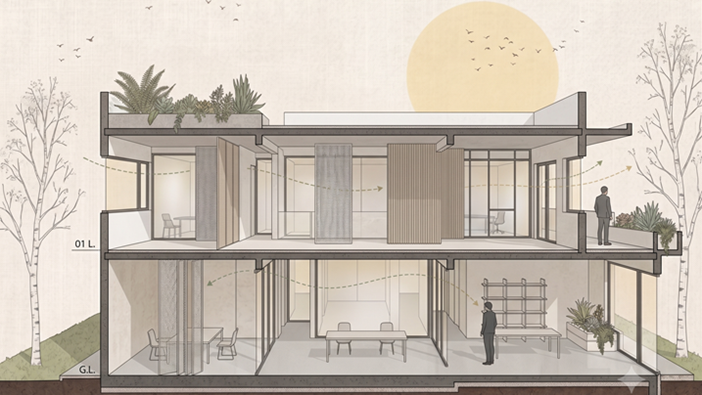
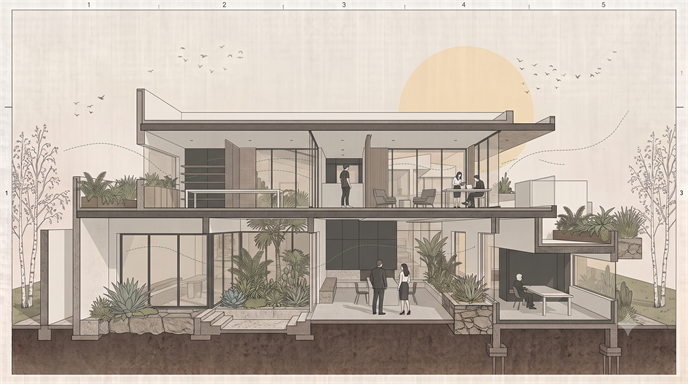
feat: update and optimize 6b.png illustration asset, add cache query to modal cards, and bump cache to v9.0

diff --git a/dna-preview.html b/dna-preview.html
@@ -11,8 +11,8 @@
     <meta name="description" content="An unlinked 14-chapter interactive architectural discovery engine exploring volumetric thresholds, thermal envelopes, and programmatic realities.">
 
     <!-- Brand Favicon -->
-    <link rel="icon" type="image/png" href="assets/images/logo.png?v=8.9">
-    <link rel="apple-touch-icon" href="assets/images/logo.png?v=8.9">
+    <link rel="icon" type="image/png" href="assets/images/logo.png?v=9.0">
+    <link rel="apple-touch-icon" href="assets/images/logo.png?v=9.0">
 
     <!-- Typography: Inter & Lintel fallback -->
     <link rel="preconnect" href="https://fonts.googleapis.com">
@@ -21,7 +21,7 @@
     <link href="https://fonts.googleapis.com/icon?family=Material+Icons" rel="stylesheet">
 
     <!-- Isolated Sandbox Stylesheet -->
-    <link rel="stylesheet" href="css/dna-preview.css?v=8.9">
+    <link rel="stylesheet" href="css/dna-preview.css?v=9.0">
 </head>
 
 <body>
@@ -302,7 +302,7 @@
     <div id="dna-toast" class="dna-toast">Dossier Summary copied to clipboard!</div>
 
     <!-- Standalone Interactive Engine Script -->
-    <script src="js/dna-preview.js?v=8.9"></script>
+    <script src="js/dna-preview.js?v=9.0"></script>
 </body>
 
 </html>

diff --git a/js/dna-modal.js b/js/dna-modal.js
@@ -609,7 +609,7 @@
 
         const visualEl = cardElement.querySelector('.dna-card-visual') || cardElement.querySelector('.dna-card-image');
         if (visualEl) {
-            visualEl.innerHTML = `<img src="${option.image}" alt="${option.title}" class="dna-card-illustration" loading="eager">`;
+            visualEl.innerHTML = `<img src="${option.image}?v=9.0" alt="${option.title}" class="dna-card-illustration" loading="eager">`;
         }
 
         const tagEl = cardElement.querySelector('.dna-card-tag');
@@ -879,7 +879,7 @@
                 const cardEl = document.createElement('div');
                 cardEl.className = 'dna-print-card-item';
                 cardEl.innerHTML = `
-                    <img src="${chosenOpt.image}" alt="${chosenOpt.title}" class="dna-print-card-thumb">
+                    <img src="${chosenOpt.image}?v=9.0" alt="${chosenOpt.title}" class="dna-print-card-thumb">
                     <div class="dna-print-card-content">
                         <span class="dna-print-card-chapter">${chapNum} // ${categoryName}</span>
                         <div class="dna-print-card-title">${chosenOpt.title}</div>

diff --git a/index.html b/index.html
@@ -12,10 +12,10 @@
     <link rel="preconnect" href="https://fonts.gstatic.com" crossorigin>
     <link href="https://fonts.googleapis.com/css2?family=Inter:wght@300;400;600&display=swap" rel="stylesheet">
     <link href="https://fonts.googleapis.com/icon?family=Material+Icons" rel="stylesheet">
-    <link rel="icon" type="image/png" href="assets/images/logo.png?v=8.9">
-    <link rel="apple-touch-icon" href="assets/images/logo.png?v=8.9">
-    <link rel="stylesheet" href="css/styles.css?v=8.9">
-    <link rel="stylesheet" href="css/dna-modal.css?v=8.9">
+    <link rel="icon" type="image/png" href="assets/images/logo.png?v=9.0">
+    <link rel="apple-touch-icon" href="assets/images/logo.png?v=9.0">
+    <link rel="stylesheet" href="css/styles.css?v=9.0">
+    <link rel="stylesheet" href="css/dna-modal.css?v=9.0">
 </head>
 
 <body>
@@ -587,8 +587,8 @@
     </div>
 
     <!-- Scripts -->
-    <script src="js/app.js?v=8.9"></script>
-    <script src="js/dna-modal.js?v=8.9"></script>
+    <script src="js/app.js?v=9.0"></script>
+    <script src="js/dna-modal.js?v=9.0"></script>
 </body>
 
 </html>

diff --git a/portfolio.html b/portfolio.html
@@ -10,9 +10,9 @@
     <link rel="preconnect" href="https://fonts.gstatic.com" crossorigin>
     <link href="https://fonts.googleapis.com/css2?family=Inter:wght@300;400;600&display=swap" rel="stylesheet">
     <link href="https://fonts.googleapis.com/icon?family=Material+Icons" rel="stylesheet">
-    <link rel="icon" type="image/png" href="assets/images/logo.png?v=8.9">
-    <link rel="apple-touch-icon" href="assets/images/logo.png?v=8.9">
-    <link rel="stylesheet" href="css/styles.css?v=8.9">
+    <link rel="icon" type="image/png" href="assets/images/logo.png?v=9.0">
+    <link rel="apple-touch-icon" href="assets/images/logo.png?v=9.0">
+    <link rel="stylesheet" href="css/styles.css?v=9.0">
 </head>
 <body>
     <canvas id="bg-particle-canvas"></canvas>
@@ -126,6 +126,6 @@
     </div>
 
     <!-- Scripts -->
-    <script src="js/app.js?v=8.9"></script>
+    <script src="js/app.js?v=9.0"></script>
 </body>
 </html>

diff --git a/contact.html b/contact.html
@@ -12,9 +12,9 @@
     <link rel="preconnect" href="https://fonts.gstatic.com" crossorigin>
     <link href="https://fonts.googleapis.com/css2?family=Inter:wght@300;400;600&display=swap" rel="stylesheet">
     <link href="https://fonts.googleapis.com/icon?family=Material+Icons" rel="stylesheet">
-    <link rel="icon" type="image/png" href="assets/images/logo.png?v=8.9">
-    <link rel="apple-touch-icon" href="assets/images/logo.png?v=8.9">
-    <link rel="stylesheet" href="css/styles.css?v=8.9">
+    <link rel="icon" type="image/png" href="assets/images/logo.png?v=9.0">
+    <link rel="apple-touch-icon" href="assets/images/logo.png?v=9.0">
+    <link rel="stylesheet" href="css/styles.css?v=9.0">
 </head>
 
 <body>
@@ -198,7 +198,7 @@
     </footer>
 
     <!-- Scripts -->
-    <script src="js/app.js?v=8.9"></script>
+    <script src="js/app.js?v=9.0"></script>
 </body>
 
 </html>

diff --git a/services.html b/services.html
@@ -12,9 +12,9 @@
     <link rel="preconnect" href="https://fonts.gstatic.com" crossorigin>
     <link href="https://fonts.googleapis.com/css2?family=Inter:wght@300;400;600&display=swap" rel="stylesheet">
     <link href="https://fonts.googleapis.com/icon?family=Material+Icons" rel="stylesheet">
-    <link rel="icon" type="image/png" href="assets/images/logo.png?v=8.9">
-    <link rel="apple-touch-icon" href="assets/images/logo.png?v=8.9">
-    <link rel="stylesheet" href="css/styles.css?v=8.9">
+    <link rel="icon" type="image/png" href="assets/images/logo.png?v=9.0">
+    <link rel="apple-touch-icon" href="assets/images/logo.png?v=9.0">
+    <link rel="stylesheet" href="css/styles.css?v=9.0">
 </head>
 
 <body>
@@ -363,7 +363,7 @@
     </footer>
 
     <!-- Scripts -->
-    <script src="js/app.js?v=8.9"></script>
+    <script src="js/app.js?v=9.0"></script>
 </body>
 
 </html>

diff --git a/studio.html b/studio.html
@@ -12,9 +12,9 @@
     <link rel="preconnect" href="https://fonts.gstatic.com" crossorigin>
     <link href="https://fonts.googleapis.com/css2?family=Inter:wght@300;400;600&display=swap" rel="stylesheet">
     <link href="https://fonts.googleapis.com/icon?family=Material+Icons" rel="stylesheet">
-    <link rel="icon" type="image/png" href="assets/images/logo.png?v=8.9">
-    <link rel="apple-touch-icon" href="assets/images/logo.png?v=8.9">
-    <link rel="stylesheet" href="css/styles.css?v=8.9">
+    <link rel="icon" type="image/png" href="assets/images/logo.png?v=9.0">
+    <link rel="apple-touch-icon" href="assets/images/logo.png?v=9.0">
+    <link rel="stylesheet" href="css/styles.css?v=9.0">
 </head>
 
 <body>
@@ -257,7 +257,7 @@
     </footer>
 
     <!-- Scripts -->
-    <script src="js/app.js?v=8.9"></script>
+    <script src="js/app.js?v=9.0"></script>
 </body>
 
 </html>
